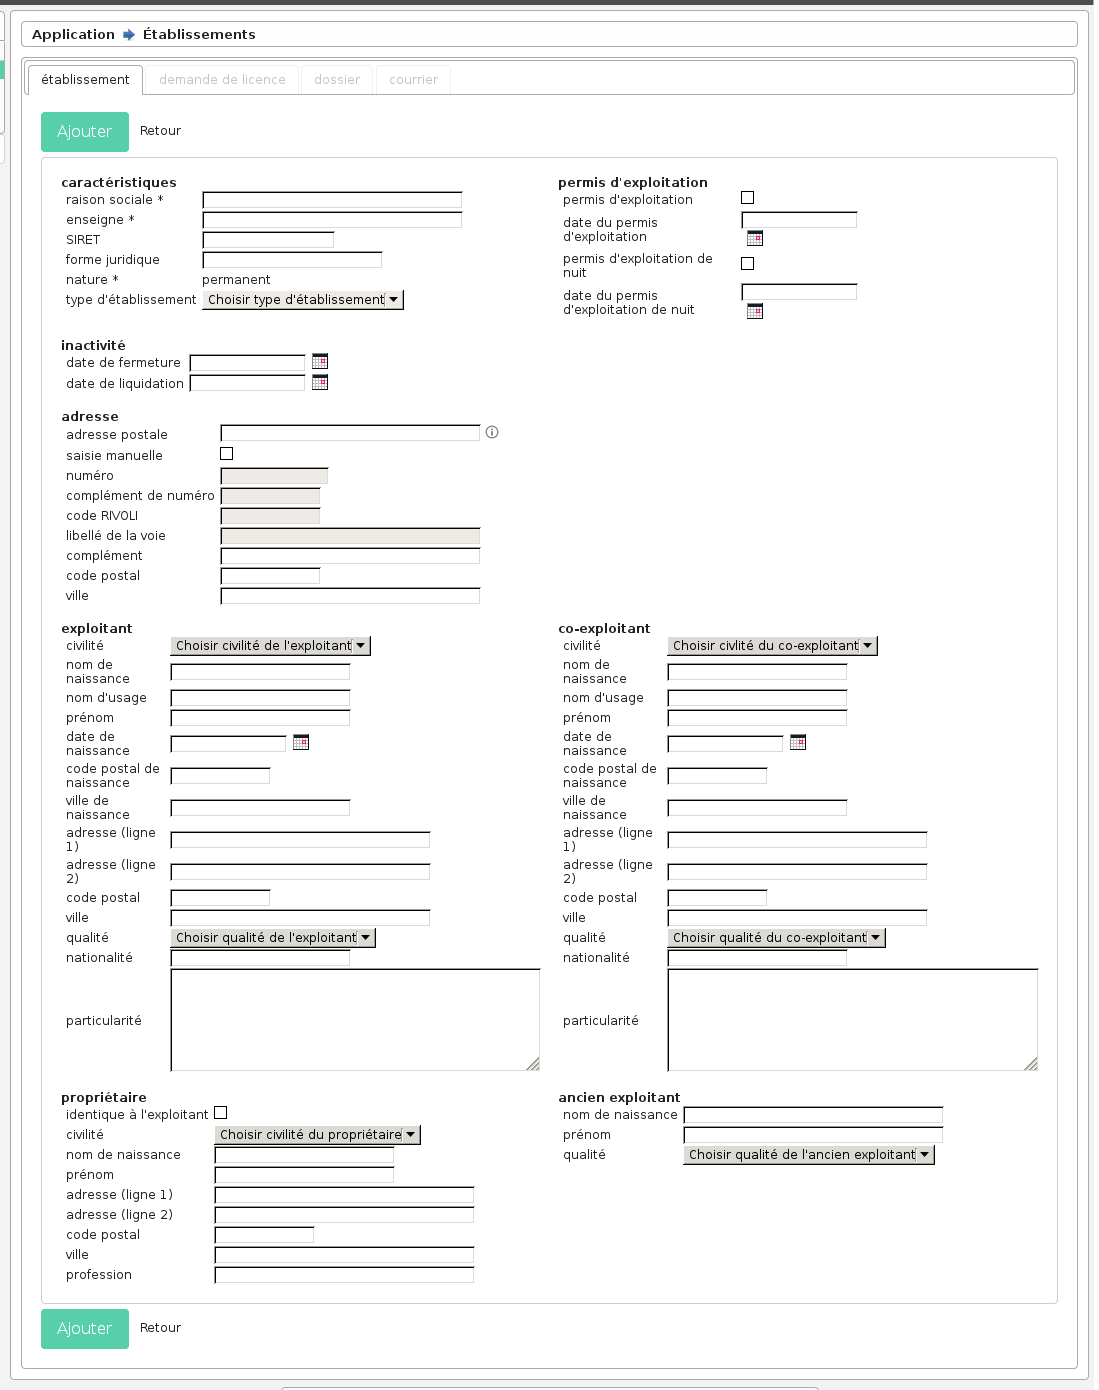
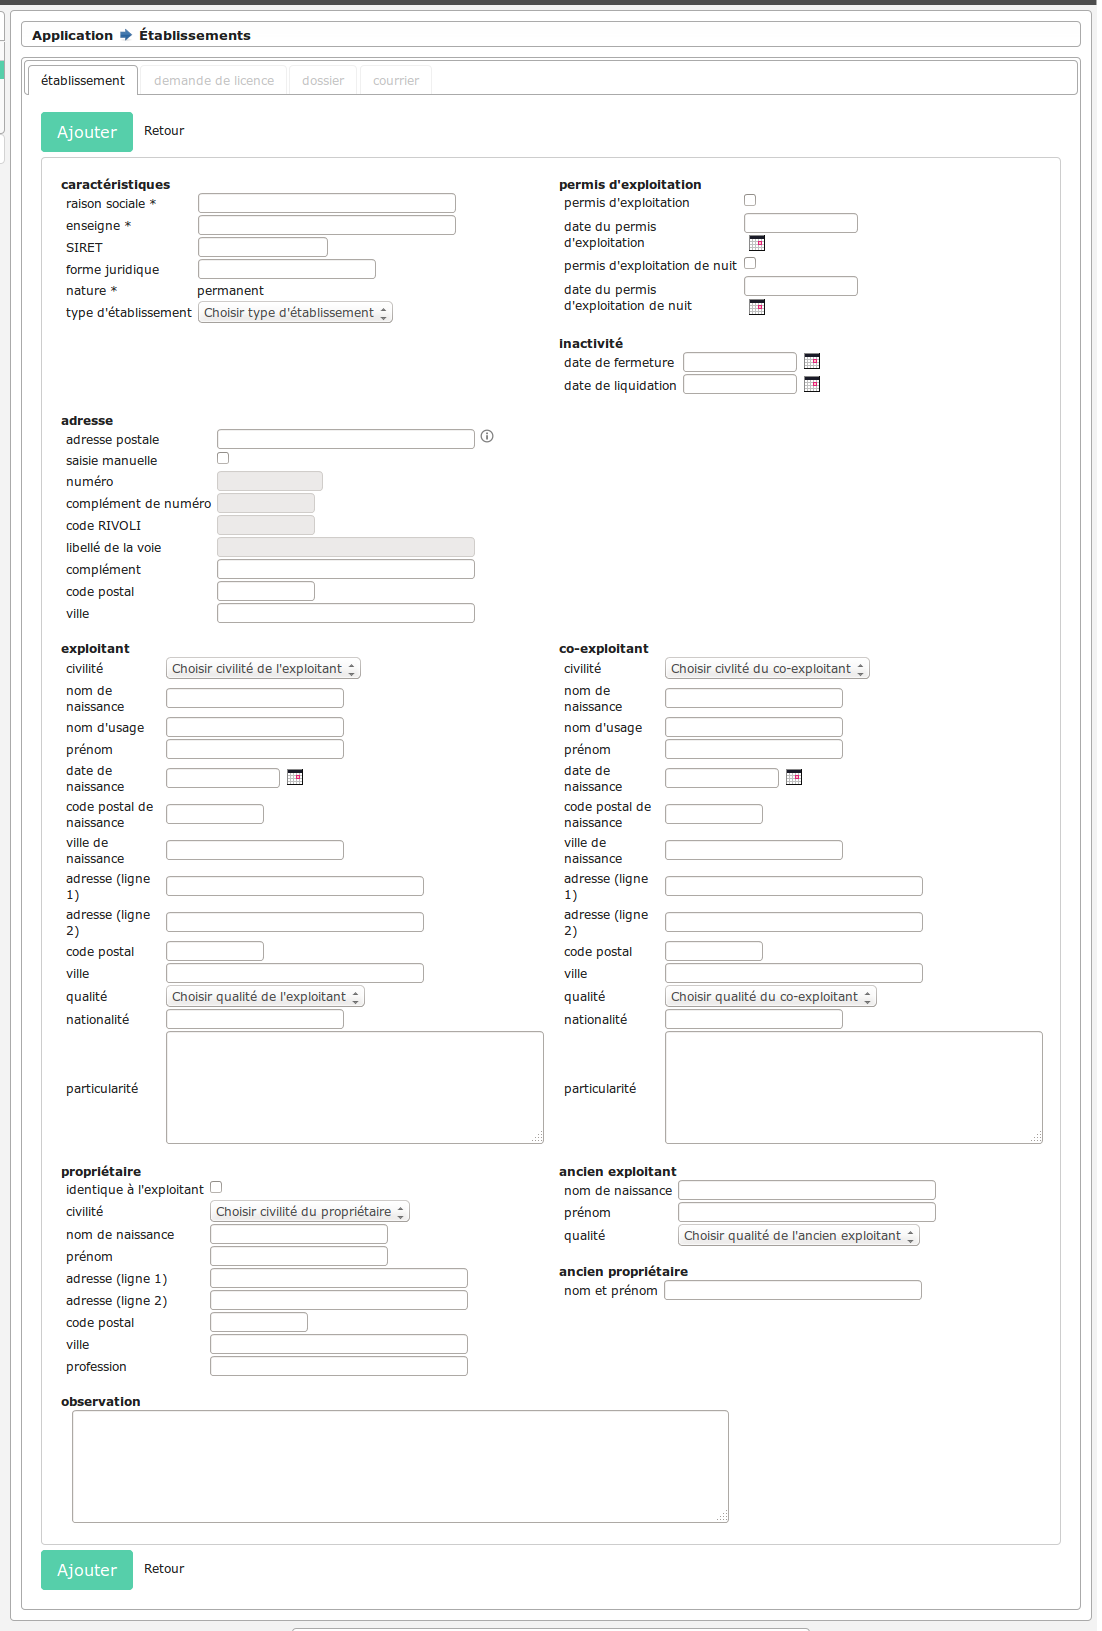
Nouvelles CE pour établissement perm et temp

diff --git a/source/manuel_utilisateur/instruction/index.rst b/source/manuel_utilisateur/instruction/index.rst
@@ -40,10 +40,14 @@ Les champs sont les suivants :
 - Forme juridique
 - Permis d'exploitation (oui/non)
 - Date du permis d'exploitation
-- localisation (avec géolocalisation)
+- Localisation (avec géolocalisation)
 - Coordonnées de l'exploitant
 - Coordonnées du propriétaire : il est possible de copier les valeurs de l'exploitant dans celles du propriétaire grâce à la case à cocher "Identique à l'exploitant"
+- Coordonées du co-exploitant
+- Coordonnées de l'ancien exploitant
+- Coordonnées de l'ancien propriétaire
 - Date de fermeture/liquidation
+- Observations 
 
 .. _instruction_etablissement_formulaire_adresse_postale:
 
